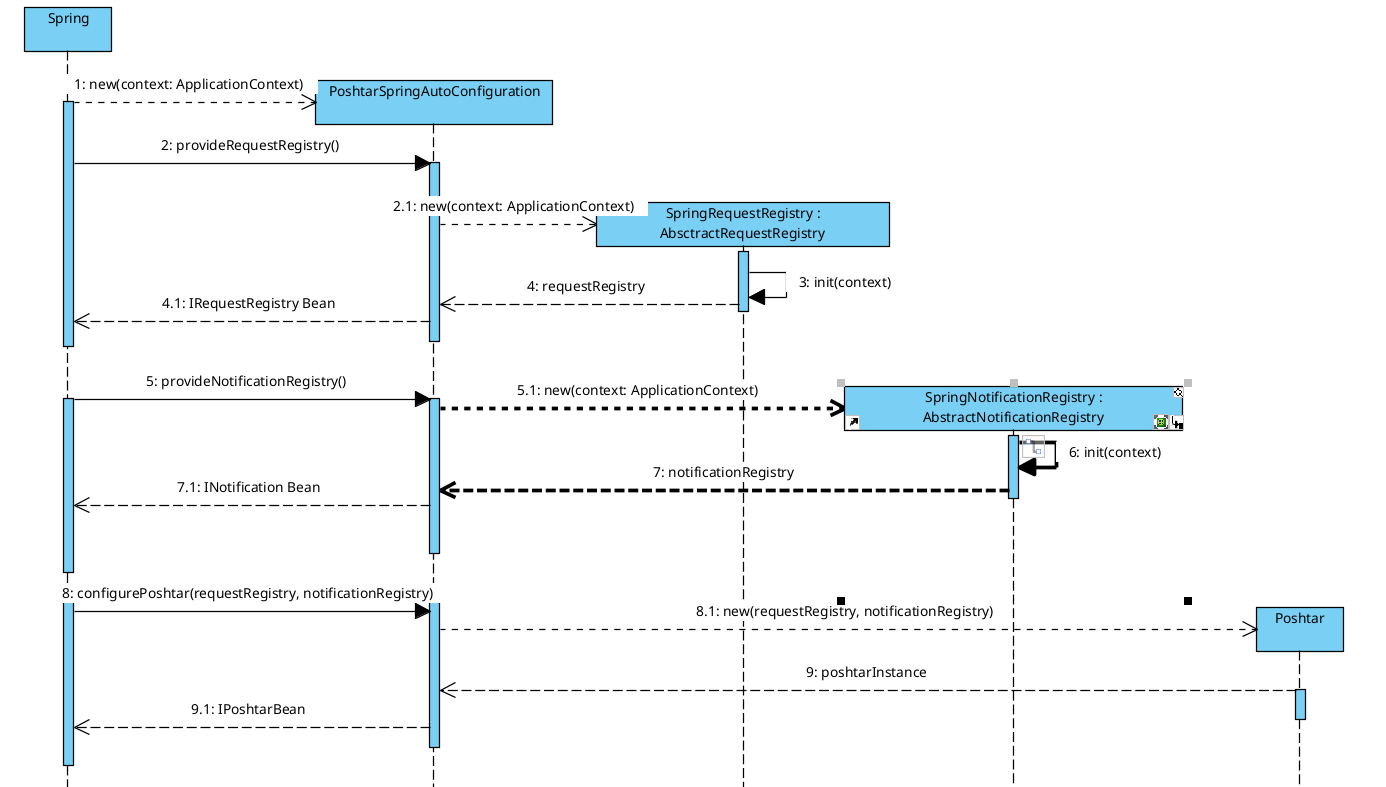
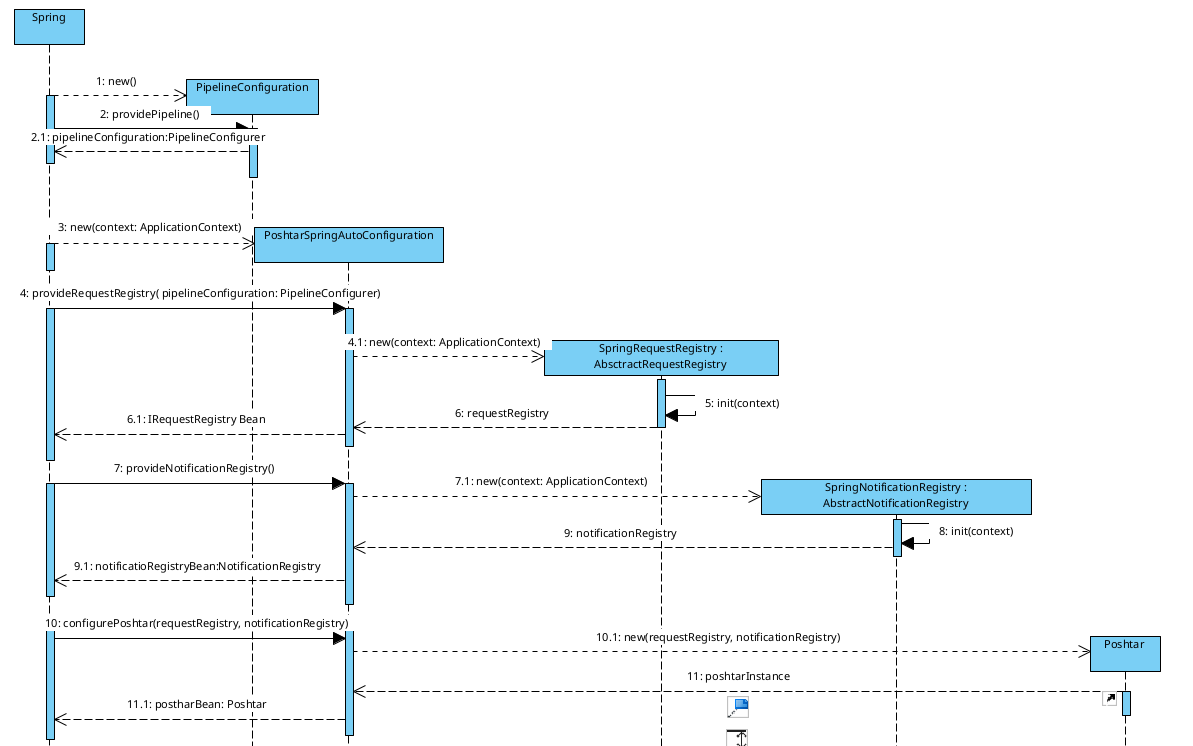
[feat] guice diagrams

diff --git a/poshtar-guice/src/main/java/org/nikola/velemir/poshtar/guice/adatper/module/PoshtarGuiceModule.java b/poshtar-guice/src/main/java/org/nikola/velemir/poshtar/guice/adatper/module/PoshtarGuiceModule.java
@@ -27,6 +27,11 @@ public class PoshtarGuiceModule extends AbstractModule {
         this.basePackages = basePackages.length > 0 ? basePackages : new String[]{""};
     }
 
+    public PoshtarGuiceModule(String... basePackages) {
+        pipelineConfigurer = new PipelineConfigurer();
+        this.basePackages = basePackages.length > 0 ? basePackages : new String[]{""};
+    }
+
     @Override
     protected void configure() {
         Reflections reflections = new Reflections((Object[]) basePackages);
@@ -48,7 +53,7 @@ public class PoshtarGuiceModule extends AbstractModule {
 
     @Provides
     @Singleton
-    public Poshtar configurePoshtar(RequestRegistry handlerRegistry, NotificationRegistry notificationRegistry) {
+    public Poshtar providePoshtar(RequestRegistry handlerRegistry, NotificationRegistry notificationRegistry) {
         return new PoshtarImpl(handlerRegistry, notificationRegistry);
     }
 

diff --git a/poshtar-guice/src/main/java/org/nikola/velemir/poshtar/guice/adatper/internal/injection/registry/GuiceNotificationRegistry.java b/poshtar-guice/src/main/java/org/nikola/velemir/poshtar/guice/adatper/internal/injection/registry/GuiceNotificationRegistry.java
@@ -14,7 +14,9 @@ public class GuiceNotificationRegistry extends AbstractNotificationRegistry {
     }
 
     private void init(Injector injector) {
+
         for (Binding<?> binding : injector.getAllBindings().values()) {
+
             Class<?> rawType = binding.getKey().getTypeLiteral().getRawType();
             if (NotificationHandler.class.isAssignableFrom(rawType) && !rawType.isInterface()) {
                 NotificationHandler handler = (NotificationHandler) injector.getInstance(binding.getKey());
